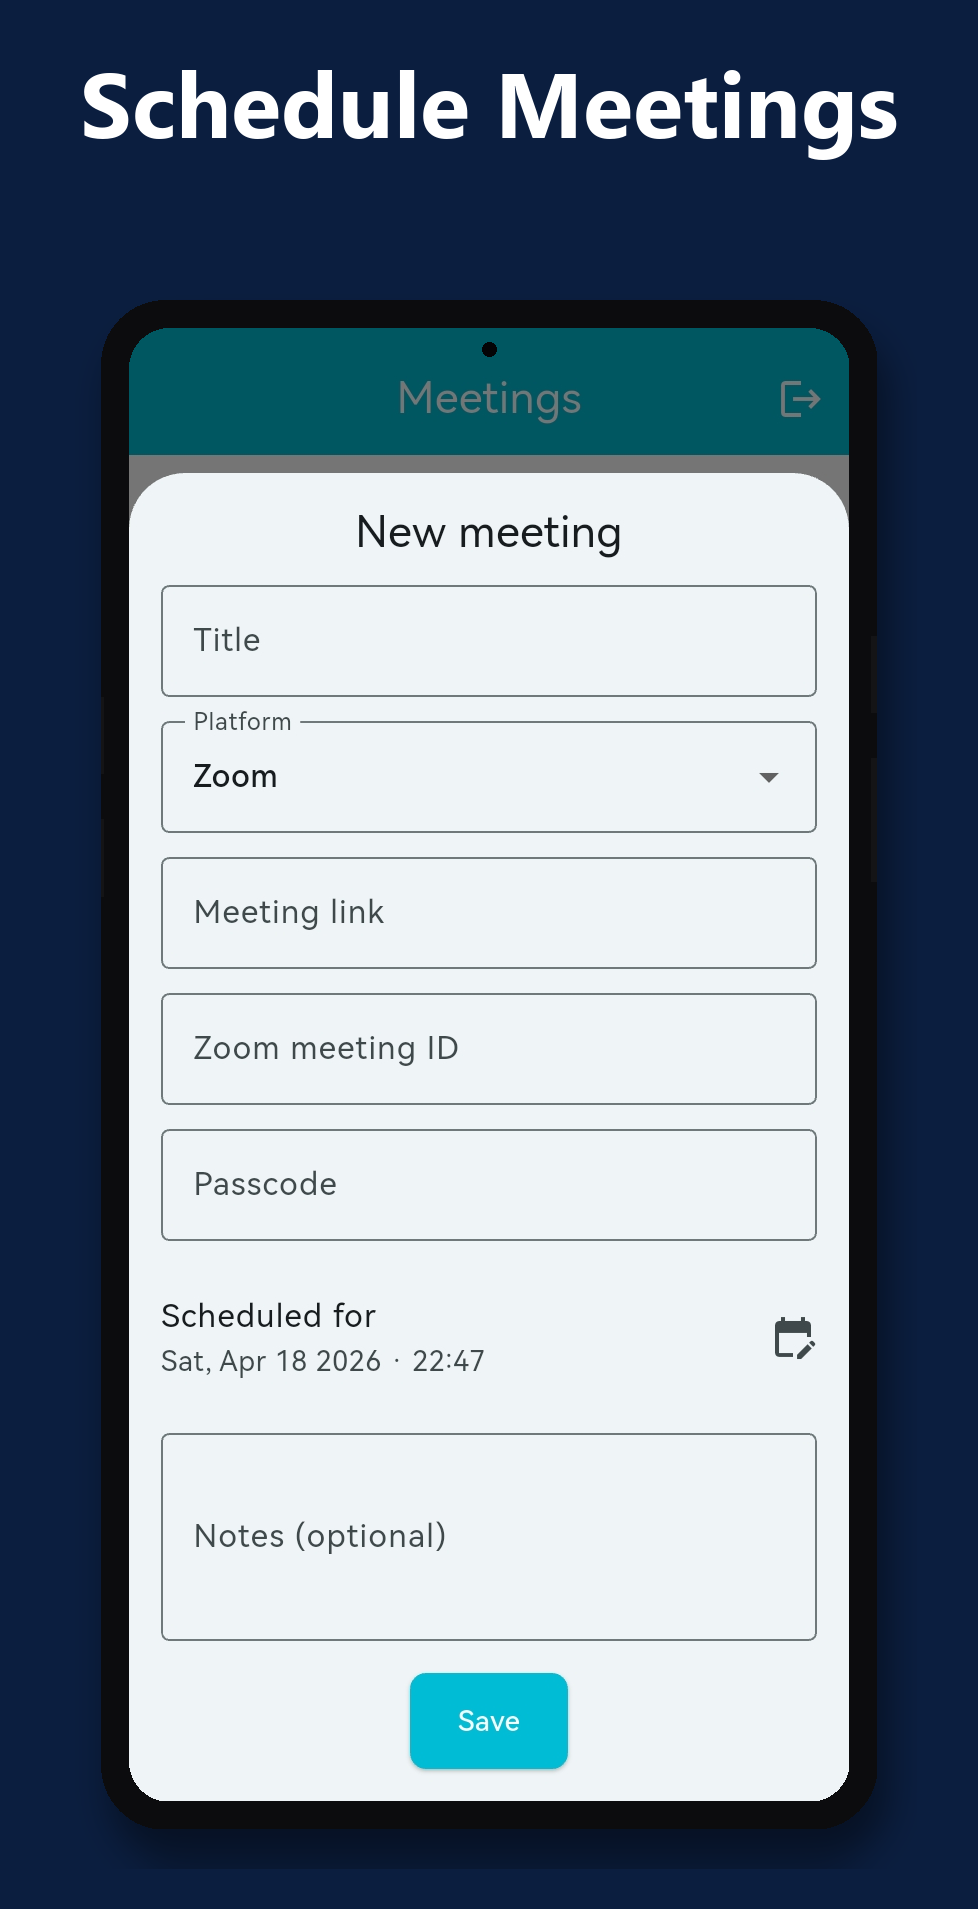
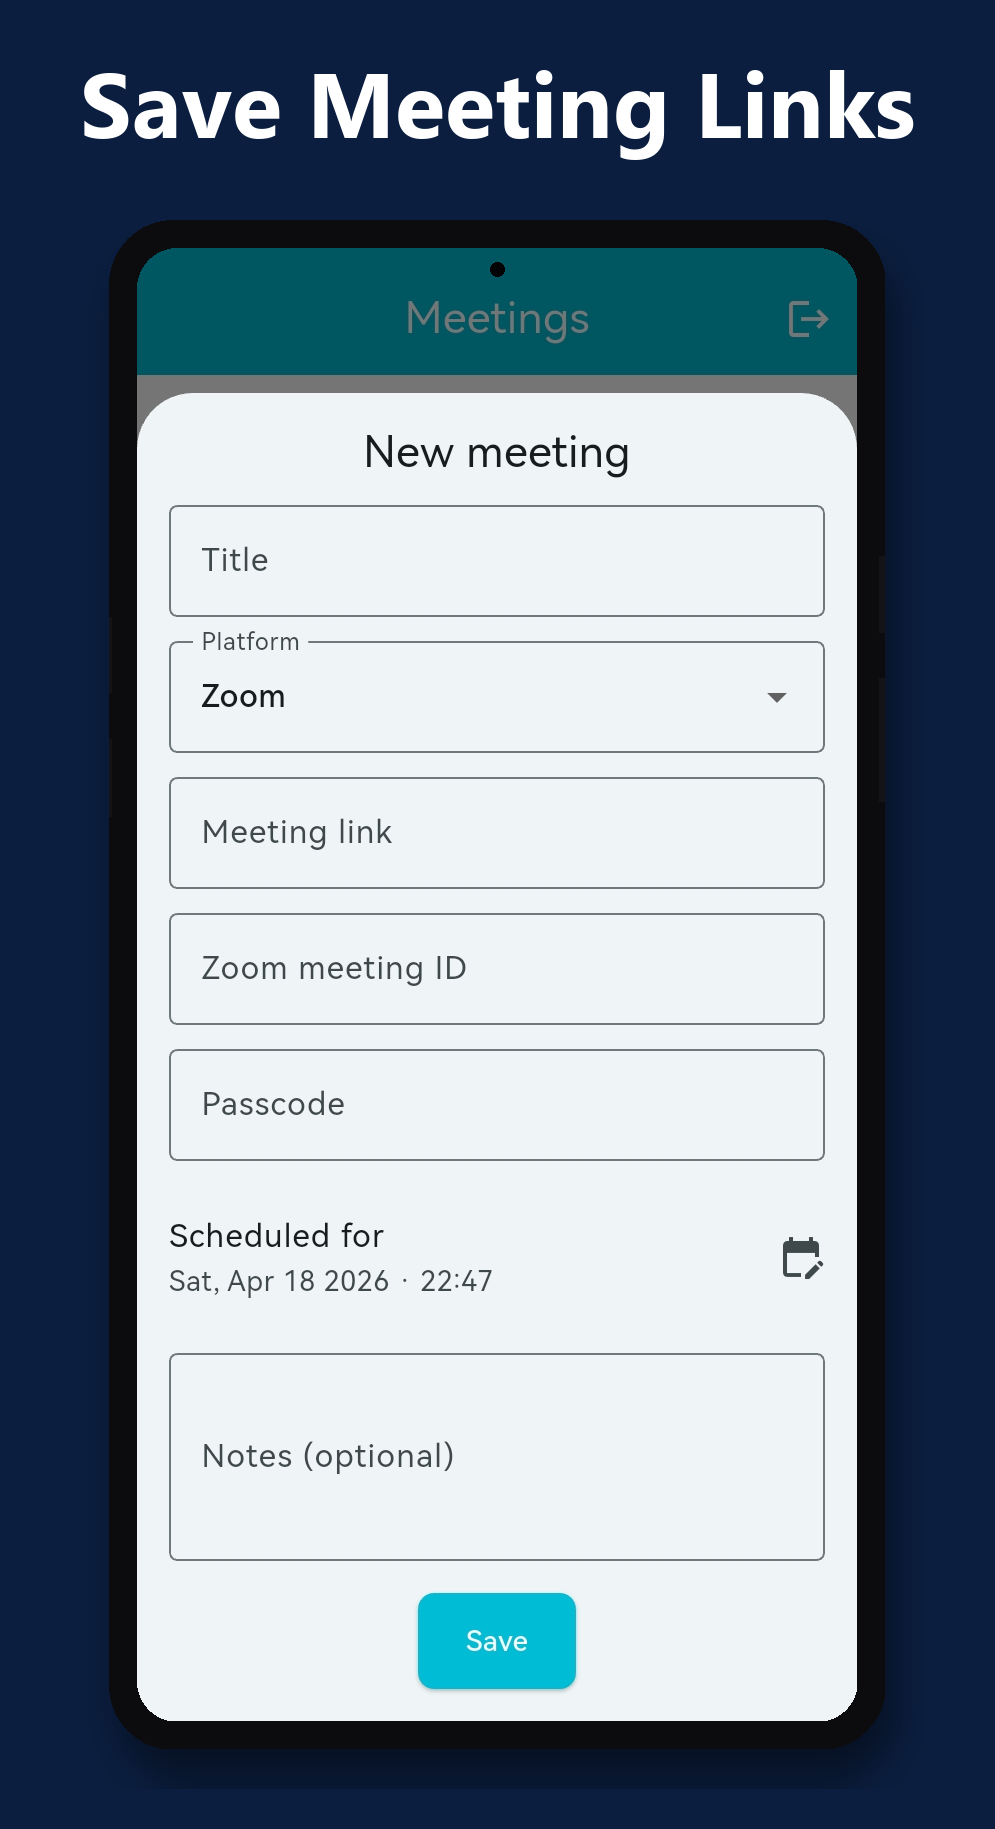
feat:app screenshots

diff --git a/mobile/screenshots/frame_phone.py b/mobile/screenshots/frame_phone.py
@@ -16,7 +16,7 @@ from PIL import Image, ImageDraw, ImageFilter, ImageFont
 
 # --- captions per output index ---------------------------------------------
 CAPTIONS = {
-    1: "Schedule Meetings",
+    1: "Save Meeting Links",
     2: "Save Links",
     3: "Encrypted Vault",
     4: "Capture Notes",
@@ -131,8 +131,31 @@ def frame_and_caption_raw(src: Path, dest: Path, caption: str) -> None:
 
 
 def recaption_existing(path: Path, caption: str) -> None:
+    """Strip any existing caption band, then apply a fresh caption on top."""
     img = Image.open(path).convert("RGB")
-    captioned = draw_caption(img, caption)
+    w, h = img.size
+    # Find the phone bezel: the first row where a pixel in the central band
+    # is very dark (sum(RGB) < 60 — bezel is ~(12,12,14); navy BG is (11,30,63)
+    # which sums to 104 so we won't false-match the background).
+    phone_top = None
+    x_start = w // 4
+    x_end = 3 * w // 4
+    step = max(1, (x_end - x_start) // 40)
+    for y in range(h):
+        for x in range(x_start, x_end, step):
+            r, g, b = img.getpixel((x, y))
+            if r + g + b < 60:
+                phone_top = y
+                break
+        if phone_top is not None:
+            break
+    if phone_top is None or phone_top < 50:
+        phone_top = 260  # fallback
+
+    # Also strip the small padding gap above the phone so draw_caption can
+    # re-introduce its own uniform top padding.
+    cropped = img.crop((0, phone_top, w, h))
+    captioned = draw_caption(cropped, caption)
     captioned.convert("RGB").save(path, "PNG", optimize=True)
 
 
